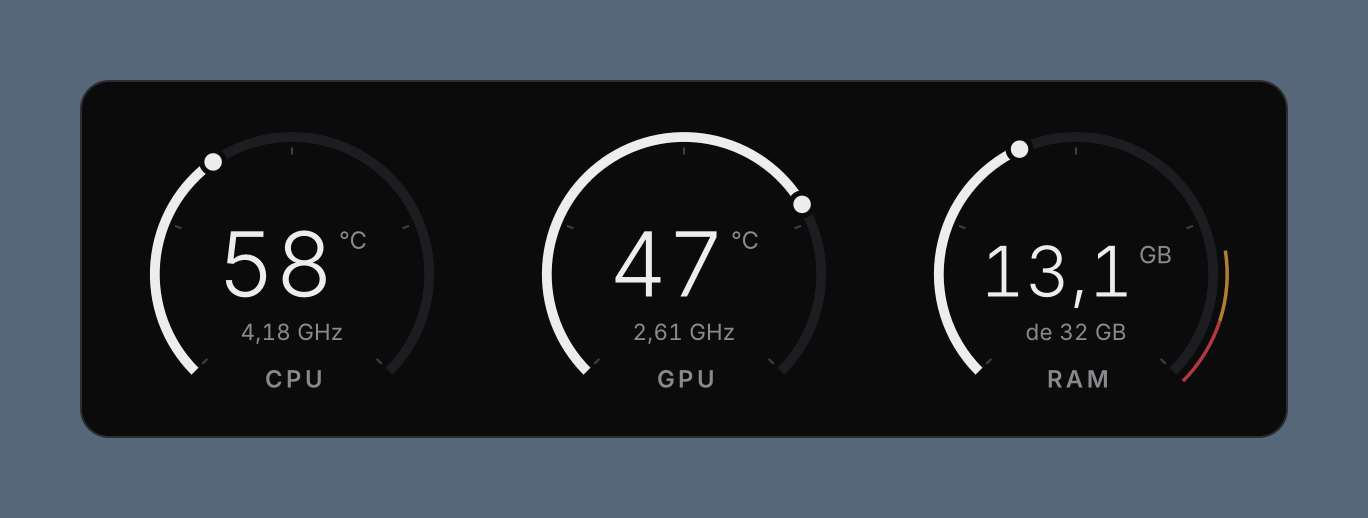
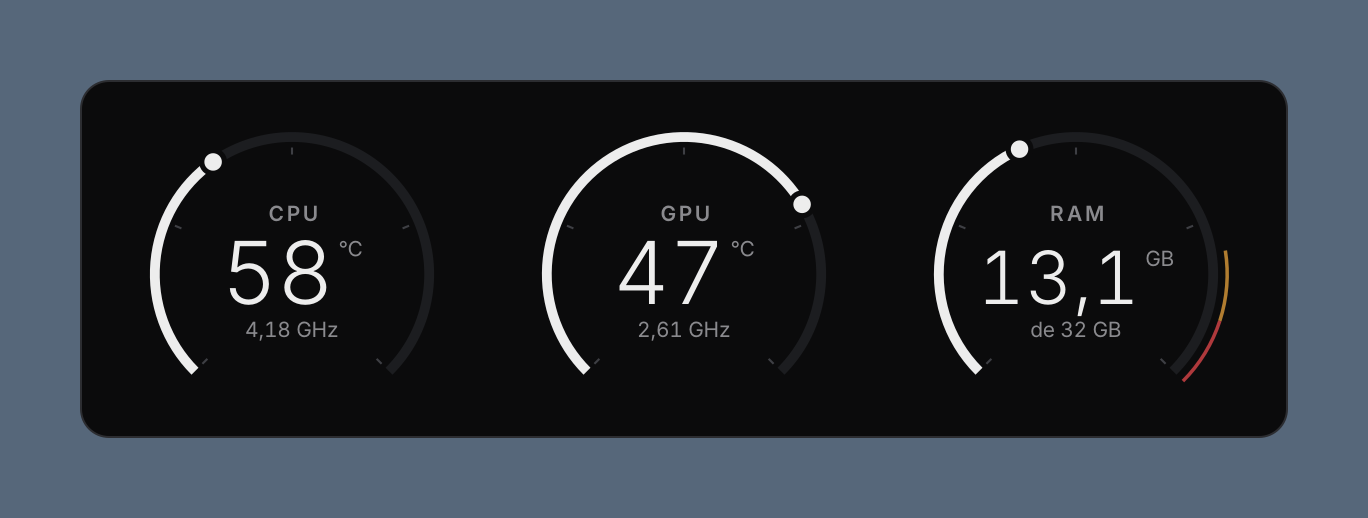
Manômetros 0.2.6: textos centralizados no meio do mostrador
- Nome, valor e clock formam um bloco centralizado no meio do círculo
- Dois tamanhos de letra: um grande para o valor e um pequeno, igual,
  para o nome, a unidade e o clock
- CPU, GPU e RAM ficam com as mesmas linhas de base (tudo na mesma altura)
- Nos tamanhos mínimos o bloco fica mais compacto e não encosta no arco

Claude-Session: https://claude.ai/code/session_01TvJtSEEhpPTpwqofc174wj

diff --git a/manometros/desenho.py b/manometros/desenho.py
@@ -133,22 +133,24 @@ class Mostrador:
     às do SVG do esboço (viewBox 500x500)."""
 
     VB = (10, 24, 480, 420)
-    # O título ("CPU") fica no vão de baixo do arco, como nos manômetros de carro;
-    # no meio ficam o número grande e, embaixo dele, a linha pequena (clock).
-    # "num": (tamanho, linha de base); "unid": (tamanho, espaço depois do número);
-    # "linha", "sub": (tamanho, linha de base); "titulo": (tamanho, base, peso, espaçamento).
+    # Textos em dois tamanhos: "num" (o valor grande) e "pequeno" (nome, unidade e clock).
+    # Nome, valor e clock formam um bloco centralizado no meio do círculo.
     NORMAL = {"trilho": 8, "faixa": 2, "marca": 2, "passo": 10, "botao": (13.5, 8.5),
-              "titulo": (22, 406, 500, 4), "num": (116, 282), "unid": (28, 8), "linha": (26, 330),
-              "sub": (18, 364), "estado_escrito": True, "pontas": True}
+              "num": 112, "pequeno": 24, "sub": 18, "peso_titulo": 500, "espaco_titulo": 4,
+              "espacos": (0.95, 0.85, 0.7), "centro": 246, "min_px": 8.5,
+              "estado_escrito": True, "pontas": True}
     # janelinha
     COMPACTO = {"trilho": 14, "faixa": 5, "marca": 3, "passo": 25, "botao": (20, 12.5),
-                "titulo": (34, 412, 600, 5), "num": (128, 282), "unid": (34, 8), "linha": (32, 344),
-                "sub": None, "estado_escrito": False, "pontas": False}
-    # janelinha nos tamanhos mínimos: sem marcas no arco, textos com posições próprias
-    # para caberem legíveis sem encostar uns nos outros
+                "num": 124, "pequeno": 30, "sub": None, "peso_titulo": 600, "espaco_titulo": 4,
+                "espacos": (0.95, 0.85, 0.7), "centro": 246, "min_px": 8.5,
+                "estado_escrito": False, "pontas": False}
+    # janelinha nos tamanhos mínimos: sem marcas no arco e clock com uma casa decimal
     MICRO = {"trilho": 20, "faixa": 6, "marca": 0, "passo": 0, "botao": (24, 15),
-             "titulo": (34, 424, 600, 4), "num": (140, 272), "unid": (34, 6), "linha": (32, 346),
-             "sub": None, "estado_escrito": False, "pontas": False, "linha_curta": True}
+             "num": 118, "pequeno": 30, "sub": None, "peso_titulo": 600, "espaco_titulo": 3,
+             "espacos": (0.6, 0.55, 0.5), "centro": 240, "min_px": 8.0,
+             "estado_escrito": False, "pontas": False, "linha_curta": True}
+    # "espacos": espaço depois do nome, do valor e do clock (em proporção do texto pequeno)
+    # "centro": altura do meio do bloco (um pouco acima do centro do círculo, por causa do vão de baixo)
     LARG_MAX_NUMERO = 220  # o número encolhe se ficar mais largo que isso (ex.: "101,3")
     TEXTO_MIN_PX = 8.5     # textos pequenos nunca ficam menores que isso na tela
     ALTURA_MAIUSC = 0.727  # altura das maiúsculas/dígitos da Inter em relação ao tamanho
@@ -162,9 +164,9 @@ class Mostrador:
         """Quantos pixels da tela vale uma unidade do desenho neste momento."""
         return abs(cr.user_to_device_distance(1, 0)[0]) or 1
 
-    def _legivel(self, cr, tam, maximo=60):
+    def _legivel(self, cr, tam, maximo=60, min_px=None):
         """Aumenta um texto pequeno (em unidades do desenho) para não ficar ilegível na tela."""
-        return min(max(tam, self.TEXTO_MIN_PX / self._px(cr)), maximo)
+        return min(max(tam, (min_px or self.TEXTO_MIN_PX) / self._px(cr)), maximo)
 
     def _entrar(self, cr, x, y, larg):
         cr.save()
@@ -181,6 +183,53 @@ class Mostrador:
         if larg >= 220:
             return self.NORMAL
         return self.MICRO if self._px(cr) < 0.2 else self.COMPACTO
+
+    def _textos_centrais(self, cr, d, numero, estado, c_num, linha, sub):
+        """Nome, valor (com unidade) e clock empilhados e centralizados no meio do círculo."""
+        A = self.ALTURA_MAIUSC
+        peq = self._legivel(cr, d["pequeno"], min_px=d["min_px"])  # nome, unidade e clock: o mesmo tamanho
+        num = num_nominal = d["num"]
+        if linha and d.get("linha_curta") and linha.endswith(" GHz"):  # "4,18 GHz" -> "4,2 GHz"
+            try:
+                linha = f"{float(linha.split()[0].replace(',', '.')):.1f} GHz".replace(".", ",")
+            except ValueError:
+                pass
+        titulo = self.titulo
+        if estado != "normal" and d["estado_escrito"]:
+            titulo += " · " + ("ALERTA" if estado == "alerta" else "CRÍTICO")
+        texto_num = numero if numero is not None else "—"
+        # o valor encolhe se, junto com a unidade, ficar largo demais para o círculo
+        dx = peq * 0.25
+        wn = largura(cr, texto_num, num, 300, tnum=True)
+        wu = largura(cr, self.unidade, peq, 400) if numero is not None else 0
+        if wn + dx + wu > self.LARG_MAX_NUMERO + 60:
+            num *= (self.LARG_MAX_NUMERO + 60 - dx - wu) / wn
+            wn = largura(cr, texto_num, num, 300, tnum=True)
+        # linhas do bloco: (altura das maiúsculas, espaço depois)
+        e1, e2, e3 = d["espacos"]
+        linhas = [("titulo", A * peq, e1 * peq), ("valor", A * num_nominal, e2 * peq)]
+        if linha:
+            linhas.append(("linha", A * peq, e3 * peq))
+        sub_tam = d["sub"]
+        if sub and sub_tam:
+            linhas.append(("sub", A * sub_tam, 0))
+        altura = sum(h for _, h, _ in linhas) + sum(g for _, _, g in linhas[:-1])
+        y = d["centro"] - altura / 2
+        cor_titulo = MUTED if estado == "normal" else c_num
+        for nome, h, g in linhas:
+            base = y + h
+            if nome == "titulo":
+                texto(cr, titulo, 250, base, peq, d["peso_titulo"], cor_titulo, "centro", espaco=d["espaco_titulo"])
+            elif nome == "valor":
+                x0 = 250 - (wn + (dx + wu if wu else 0)) / 2
+                texto(cr, texto_num, x0, base, num, 300, c_num if numero is not None else MUTED, tnum=True)
+                if wu:  # unidade alinhada ao topo do número
+                    texto(cr, self.unidade, x0 + wn + dx, base - A * num + A * peq, peq, 400, MUTED)
+            elif nome == "linha":
+                texto(cr, linha, 250, base, peq, 400, MUTED, "centro", tnum=True)
+            else:
+                texto(cr, sub, 250, base, sub_tam, 400, MUTED, "centro")
+            y = base + g
 
     def estatico(self, cr, x, y, larg):
         self._entrar(cr, x, y, larg)
@@ -233,40 +282,7 @@ class Mostrador:
             cor(cr, c_arco, alfa)
             cr.arc(kx, ky, dentro, 0, 2 * math.pi)
             cr.fill()
-        tam, yb = d["num"]
-        if numero is not None:
-            # número e unidade centralizados juntos; a unidade alinhada ao topo do número
-            w = largura(cr, numero, tam, 300, tnum=True)
-            if w > self.LARG_MAX_NUMERO:
-                tam *= self.LARG_MAX_NUMERO / w
-                w = largura(cr, numero, tam, 300, tnum=True)
-            tu, dx = d["unid"]
-            tu = self._legivel(cr, tu)
-            wu = largura(cr, self.unidade, tu, 400)
-            x0 = 250 - (w + dx + wu) / 2
-            texto(cr, numero, x0, yb, tam, 300, c_num, tnum=True)
-            topo = yb - self.ALTURA_MAIUSC * tam
-            texto(cr, self.unidade, x0 + w + dx, topo + self.ALTURA_MAIUSC * tu, tu, 400, MUTED)
-        else:
-            texto(cr, "—", 250, yb - 6, tam * 0.75, 300, MUTED, "centro")
-        if linha and d.get("linha_curta") and linha.endswith(" GHz"):  # "4,18 GHz" -> "4,2 GHz"
-            try:
-                linha = f"{float(linha.split()[0].replace(',', '.')):.1f} GHz".replace(".", ",")
-            except ValueError:
-                pass
-        if linha:
-            tl, yl = d["linha"]
-            texto(cr, linha, 250, yl, self._legivel(cr, tl), 400, MUTED, "centro", tnum=True)
-        if sub and d["sub"]:
-            ts, ys = d["sub"]
-            texto(cr, sub, 250, ys, ts, 400, MUTED, "centro")
-        # título no vão de baixo: cinza no normal, na cor do alerta quando for o caso
-        tt, yt, peso, esp = d["titulo"]
-        titulo = self.titulo
-        if estado != "normal" and d["estado_escrito"]:
-            titulo += " · " + ("ALERTA" if estado == "alerta" else "CRÍTICO")
-        texto(cr, titulo, 250, yt, self._legivel(cr, tt), peso, MUTED if estado == "normal" else c_num, "centro",
-              espaco=esp)
+        self._textos_centrais(cr, d, numero, estado, c_num, linha, sub)
         cr.restore()
 
 

diff --git a/manometros/__init__.py b/manometros/__init__.py
@@ -1,3 +1,3 @@
 """Manômetros: painel de monitoramento estilo painel de carro para Linux."""
-__version__ = "0.2.5"
+__version__ = "0.2.6"
 REPOSITORIO = "pauloestefani/manometros"
